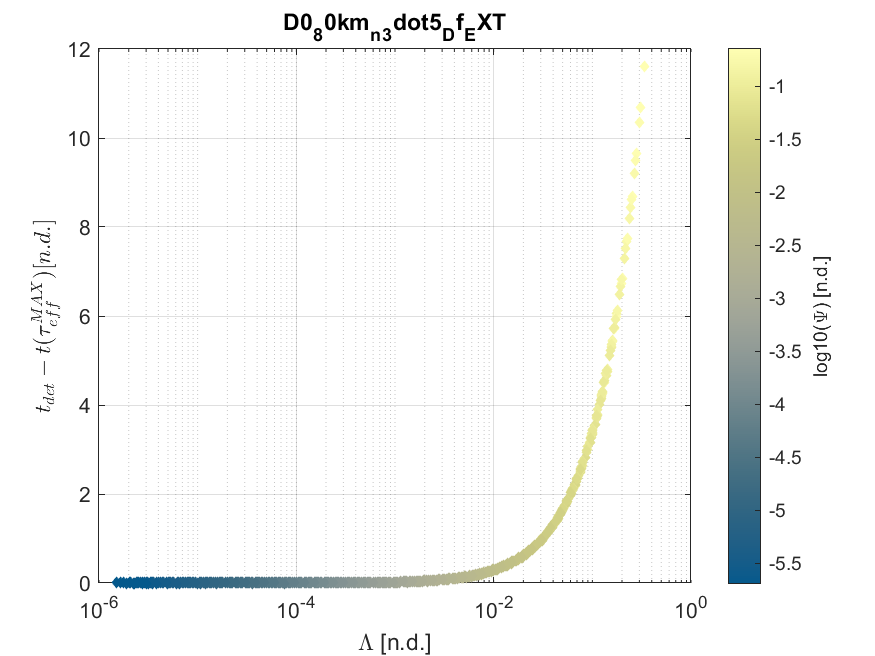
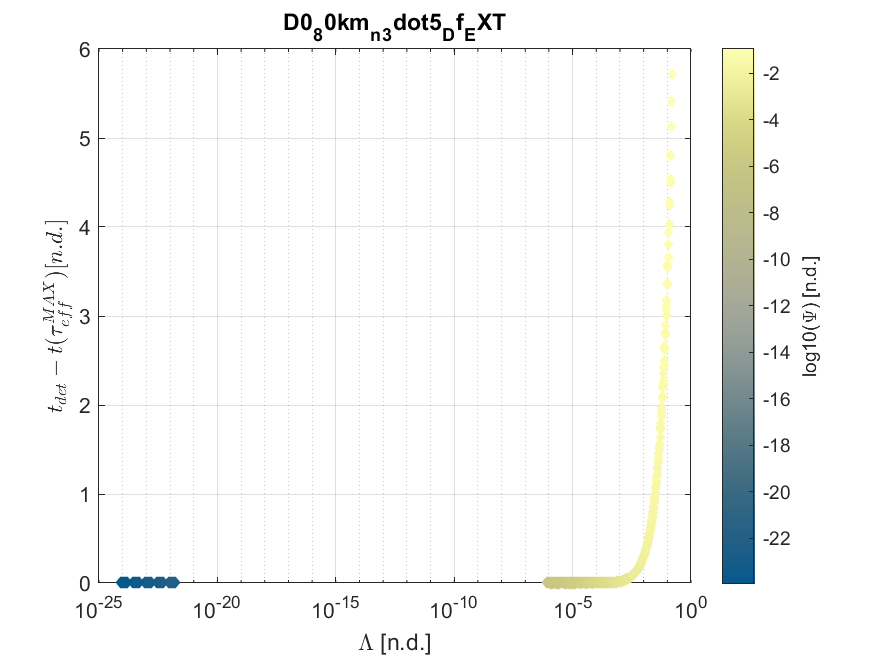
Benchmark
Short commit, just to update nothing relevant. Still benchmarking

diff --git a/Adimensional/Run_Simulation_DragA.m b/Adimensional/Run_Simulation_DragA.m
@@ -22,23 +22,8 @@ function TestdataA = Run_Simulation_DragA(ID_A)
     options = odeset('RelTol',1e-8,'NormControl','on','Events',@(t,x,xp0) det_EV(t,x,xp0,ID_A));
     % resolve the system
     [t,D,te,De,ie] = ode15i(Funf_wi,[0 10],ID_A.D0,dDdt0,options);
-    % Normalize the thickness vector
-    % Function to post process the stress, strain and so forth
-    % place holder
-    % save relevant data of the simulation:
-    
+    [TestdataA]=postprocess_data(t,D,ID_A,te,De,ie,0); 
 
-    TestdataA.time   = t; %time vector divided by the detachment timescale 
-    TestdataA.D_norm = D;
-    TestdataA.t_det   = te;
-    %TestdataA.tau(1,:) = t_B;
-    %TestdataA.tau(2,:) = t_D;
-    %TestdataA.tau(3,:) = (t_B+t_D);
-    % Find the max tau eff
-    %TestdataA.t_t_max = t_t_max;
-    %TestdataA.time_t_M = time_t_M./ID_A.tc; 
-    %TestdataA.t_t_det  = TestdataA.tau(3,end);
-    %disp(['time of detachment is t/tc  ',num2str(te/ID.tc,4),' which is td_O/td_P ', num2str((ID.n*te)/ID.tc,4), '  w.r.t. analytical prediction'])
 end
 
 function [res] = compute_dragODEA(D,dDdt,ID_A)
@@ -56,13 +41,13 @@ function [res] = compute_dragODEA(D,dDdt,ID_A)
     
     % Compute the effective stress 
     [tau_eff,tau_B,tau_D]         = Compute_Effective_StressA(D,dDdt,ID_A);
-    [epsilon_eff,eps_dif,eps_dis] = Compute_Effective_StrainA(ID_A,tau_eff);
+    [epsilon_eff,eps_dif,eps_dis] = Compute_StrainA(ID_A,tau_eff);
     res                           = -D*(epsilon_eff)-dDdt;
 end
 % Event detection (not difficult, though, i just copied the matlab help
 % page (which has been copied also by Marcel in his code) 
 function [position,isterminal,direction] = det_EV(t,y,yp0,ID)
-    position = y(1)-0.1*ID.D0; % The value that we want to be zero
+    position = y(1)-0.1; % The value that we want to be zero
     % To be precise, each time step y(1) is the actual thickness. so,
     % D(t)-0.1*D0 must be 0 to stop the simulation and having an event. 
     % Additional mistake that I did the function handle must incorporate the

diff --git a/Script_testing.m b/Script_testing.m
@@ -10,17 +10,17 @@ addpath Utilities\
 %Parameter to test: 
 % To do: 
 % Generate a data structure and labelling. 
-l0_v    = (300e3:50e3:600e3);                 % initial length
-D0      = 80e3;                  % thickness
+l0_v    = (300e3:30e3:600e3);                 % initial length
+D0      = 80e3;                       % thickness
 % Slab Rheology
-eta0_v = [1e22,5e22,1e23,5e23];                   % [Pas] refernce power law viscosity slab 
-Df_v   = [0.8,1.0,10,100];                          % [n.d.]viscosity contrast between diffusion and dislocation creep at the reference stress 
-n_v     =[2.0, 3.5,7.0,9.0];                       % [n.d.] pre-exponential factor
-s0_v  = [100e6:50e6:200e6];                   % [Pa]  reference buoyancy stress
+eta0_v = [10.^(22:0.5:24)];                   % [Pas] refernce power law viscosity slab 
+Df_v   = [10.0];                          % [n.d.]viscosity contrast between diffusion and dislocation creep at the reference stress 
+n_v     =[ 3.5];                       % [n.d.] pre-exponential factor
+s0_v  = [100e6:100e6:200e6];                   % [Pa]  reference buoyancy stress
 % Upper Mantle
-etaum_v =10.^(18:0.1:21);    % [Pa.s]vector of the mantle viscosity
+etaum_v =[1.0,10.^(18:0.1:21)];    % [Pa.s]vector of the mantle viscosity
 
-name_tests_v = {'D0_80km_n_2dot0_Df_EXT','D0_80km_n_3dot5_Df_EXT','D0_80km_n_7dot0_Df_EXT','D0_80km_n_9dot0_Df_EXT'};
+name_tests_v = {'D0_80km_n_3dot5_Df_EXT'};
 
 ptsave = 'Tests_result';
 

diff --git a/Adimensional/Compute_Effective_StressA.m b/Adimensional/Compute_Effective_StressA.m
@@ -24,9 +24,9 @@ function [tau_eff,tau_B,tau_D] = Compute_Effective_StressA(D,dDdt,ID_A)
         check_drag      = -0.012;
         check_B         = 2.0; 
     end
-    tau_B = (ID_A.D0/D);
+    tau_B = (ID_A.D0./D);
     % Drag force related stress compute formulation of Bercovici et al 2015 
-    tau_D = +ID_A.Lambda*tau_B^3*dDdt;
+    tau_D = +ID_A.Lambda.*tau_B.^3.*dDdt;
     % Effective stress
     if nargin == 0
         if abs(tau_eff-check_eff)>1e-5 || abs(tau_D-check_drag)>1e-5 || abs(tau_B-check_B)>1e-5

diff --git a/Utilities/Run_Simulations.m b/Utilities/Run_Simulations.m
@@ -42,9 +42,9 @@ for i=1:n_tests
     disp(['Simulation ',l_simulation, 'is starting'])
     % Run a simulation with a specific combination of parameter
     Testdata = Run_Simulation_Drag(ID);
-    %Testdata_a = Run_Simulation_DragA(ID.ID_A);
+    Testdata_a = Run_Simulation_DragA(ID.ID_A);
     Tests.(l_simulation) = Testdata;
-    %Tests.(l_simulation).Testdata.A=Testdata_a;
+    Tests.(l_simulation).Testdata_a=Testdata_a;
     Tests.(l_simulation).initial_data = ID;
     ID = [];
     Testdata = [];

diff --git a/Dimensional/Run_Simulation_Drag.m b/Dimensional/Run_Simulation_Drag.m
@@ -27,7 +27,7 @@ function Testdata = Run_Simulation_Drag(ID)
     % Function to post process the stress, strain and so forth
     % place holder
     % save relevant data of the simulation:
-    [Testdata]=postprocess_data(t,D,ID,te,De,ie); 
+    [Testdata]=postprocess_data(t,D,ID,te,De,ie,1); 
     %disp(['time of detachment is t/tc  ',num2str(te/ID.tc,4),' which is td_O/td_P ', num2str((ID.n*te)/ID.tc,4), '  w.r.t. analytical prediction'])
 end
 

diff --git a/Utilities/postprocess_data.m b/Utilities/postprocess_data.m
@@ -52,7 +52,7 @@ function [Testdata]=postprocess_data(t,D,ID,te,De,ie,Dim)
     if Dim == 1
         Testdata.time_t_M = time_t_M./ID.tc;
     else
-        Testdata.time_t_M = time_t_M
+        Testdata.time_t_M = time_t_M;
     end
     Testdata.t_t_det  = Testdata.tau(3,end);
 end

diff --git a/Adimensional/Compute_StrainA.m b/Adimensional/Compute_StrainA.m
@@ -67,5 +67,5 @@ function [eps] = Compute_strain_m(B,tau_eff,n)
 if nargin == 2
     n = 1.0;
 end
-eps = B*tau_eff^n;    
+eps = B.*tau_eff.^n;    
 end
